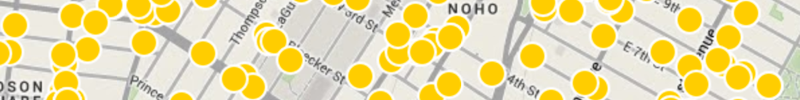
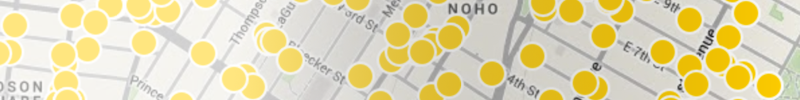
Clustering in class wizard

diff --git a/public/js/classwizards.js b/public/js/classwizards.js
@@ -17,8 +17,7 @@ classWizards.init = function (record) {
             {
                 html: '<table>' +
                     '<tr class="x-grid3-row"><td><hr></td></tr>' +
-                    '<tr class="x-grid3-row"><td><b>' + __("Single") + '</b></td></tr>' +
-                    '<tr class="x-grid3-row"><td><img style="width: 283px" src="/assets/images/single_class.png"></td></tr>' +
+                    '<tr class="x-grid3-row"><td class="map-thumbs" style="background-image:url(\'/assets/images/single_class.png\')"><b>' + __("Single") + '</b></td></tr>' +
                     '</table>'
             },
             {
@@ -68,10 +67,8 @@ classWizards.init = function (record) {
             {
                 html: '<table>' +
                     '<tr class="x-grid3-row"><td><hr></td></tr>' +
-                    '<tr class="x-grid3-row"><td><b>' + __("Unique values") + '</b></td></tr>' +
-                    '<tr class="x-grid3-row"><td><img style="width: 283px" src="/assets/images/unique_classes.png"></td></tr>' +
+                    '<tr class="x-grid3-row"><td class="map-thumbs" style="background-image:url(\'/assets/images/unique_classes.png\')"><b>' + __("Unique values") + '</b></td></tr>' +
                     '</table>'
-
             },
             {
                 defaults: {
@@ -81,13 +78,13 @@ classWizards.init = function (record) {
                 items: [
                     {
                         xtype: "form",
-                        id: "uniqueform",
+                        id: "clusterform",
                         layout: "form",
                         items: [
                             {
                                 xtype: 'container',
                                 defaults: {
-                                    width: 100
+                                    width: 150
                                 },
                                 items: [
                                     {
@@ -154,8 +151,7 @@ classWizards.init = function (record) {
             {
                 html: '<table>' +
                     '<tr class="x-grid3-row"><td><hr></td></tr>' +
-                    '<tr class="x-grid3-row"><td><b>' + __("Intervals") + '</b></td></tr>' +
-                    '<tr class="x-grid3-row"><td><img style="width: 283px" src="/assets/images/interval_classes.png"></td></tr>' +
+                    '<tr class="x-grid3-row"><td class="map-thumbs" style="background-image:url(\'/assets/images/interval_classes.png\')"><b>' + __("Intervals") + '</b></td></tr>' +
                     '</table>'
 
             },
@@ -289,6 +285,92 @@ classWizards.init = function (record) {
                                                 }
                                             }
                                         ]
+                                    }
+                                ]
+                            }
+                        ]
+                    },
+                    {
+                        html: '<table>' +
+                            '<tr class="x-grid3-row"><td><hr></td></tr>' +
+                            '<tr class="x-grid3-row"><td class="map-thumbs" style="background-image:url(\'/assets/images/cluster_classes.png\')"><b>' + __("Clustering") + '</b></td></tr>' +
+                            '</table>'
+                    },
+                    {
+                        defaults: {
+                            border: false
+                        },
+                        layout: 'hbox',
+                        items: [
+                            {
+                                xtype: "form",
+                                id: "clusterform",
+                                layout: "form",
+                                items: [
+                                    {
+                                        xtype: 'container',
+                                        defaults: {
+                                            width: 150
+                                        },
+                                        items: [
+                                            new Ext.ux.form.SpinnerField({
+                                                name: "clusterdistance",
+                                                minValue: 1,
+                                                allowDecimals: false,
+                                                decimalPrecision: 0,
+                                                incrementValue: 1,
+                                                accelerate: true,
+                                                allowBlank: false,
+                                                emptyText: __("Cluster distance")
+                                            })
+                                        ]
+                                    }
+                                ]
+                            },
+                            {
+                                layout: 'form',
+                                bodyStyle: 'margin-right:5px; padding-left: 5px',
+                                items: [
+                                    {
+                                        xtype: 'button',
+                                        text: 'Create',
+                                        handler: function () {
+                                            var f = Ext.getCmp('clusterform'), values, params;
+                                            if (f.form.isValid()) {
+                                                values = f.form.getValues();
+                                                params = classWizards.getAddvalues();
+                                                Ext.Ajax.request({
+                                                    url: '/controllers/classification/cluster/' + record._key_ + '/' + values.clusterdistance,
+                                                    method: 'put',
+                                                    params: params,
+                                                    headers: {
+                                                        'Content-Type': 'application/json; charset=utf-8'
+                                                    },
+                                                    success: function (response) {
+                                                        Ext.getCmp("a3").remove(wmsClass.grid);
+                                                        wmsClasses.store.load();
+                                                        wmsLayer.store.load();
+                                                        writeFiles(record.f_table_schema + "." + record.f_table_name);
+                                                        App.setAlert(__(App.STATUS_NOTICE), __(Ext.decode(response.responseText).message));
+                                                    },
+                                                    failure: function (response) {
+                                                        Ext.MessageBox.show({
+                                                            title: 'Failure',
+                                                            msg: __(Ext.decode(response.responseText).message),
+                                                            buttons: Ext.MessageBox.OK,
+                                                            width: 400,
+                                                            height: 300,
+                                                            icon: Ext.MessageBox.ERROR
+                                                        });
+                                                    }
+                                                });
+                                            } else {
+                                                var s = '';
+                                                Ext.iterate(f.form.getValues(), function (key, value) {
+                                                    s += String.format("{0} = {1}<br />", key, value);
+                                                }, this);
+                                            }
+                                        }
                                     }
                                 ]
                             }

diff --git a/public/js/store.js b/public/js/store.js
@@ -1523,7 +1523,7 @@ $(window).ready(function () {
                                 items: [
                                     {
                                         xtype: "panel",
-                                        title: 'Theme wizard',
+                                        title: __('Class wizards'),
                                         defaults: {
                                             border: false
                                         },

diff --git a/public/js/i18n/en_US.js b/public/js/i18n/en_US.js
@@ -162,6 +162,7 @@ gc2i18n = {
         "Close this window to disable measure tool": "Close this window to disable measure tool",
         "Measure": "Measure",
         "Distance": "Distance",
-        "Area": "Area"
+        "Area": "Area",
+        "Class wizards": "Class wizards"
     }
 };

diff --git a/app/models/Classification.php b/app/models/Classification.php
@@ -105,8 +105,7 @@ class Classification extends \app\inc\Model
         return $response;
     }
 
-    private
-    function store($data)
+    private function store($data)
     {
 
         // First we replace unicode escape sequence
@@ -124,8 +123,7 @@ class Classification extends \app\inc\Model
         return $response;
     }
 
-    public
-    function insert()
+    public function insert()
     {
         $classes = $this->getAll();
         $classes['data'][] = array("name" => "Unnamed class");
@@ -140,8 +138,7 @@ class Classification extends \app\inc\Model
         return $response;
     }
 
-    public
-    function update($id, $data)
+    public function update($id, $data)
     {
         $data->expression = urldecode($data->expression);
         $classes = $this->getAll();
@@ -158,8 +155,7 @@ class Classification extends \app\inc\Model
         return $response;
     }
 
-    public
-    function destroy($id) // Geometry columns
+    public function destroy($id) // Geometry columns
     {
         $classes = $this->getAll();
         unset($classes['data'][$id]);
@@ -179,14 +175,12 @@ class Classification extends \app\inc\Model
         return $response;
     }
 
-    private
-    function reset()
+    private function reset()
     {
         $this->store(json_encode(array()));
     }
 
-    public
-    function createSingle($data)
+    public function createSingle($data)
     {
         $this->reset();
         $layer = new \app\models\Layer();
@@ -203,8 +197,7 @@ class Classification extends \app\inc\Model
         return $response;
     }
 
-    public
-    function createUnique($field, $data)
+    public function createUnique($field, $data)
     {
         $layer = new \app\models\Layer();
         $geometryType = ($this->geometryType) ? : $layer->getValueFromKey($this->layer, "type");
@@ -244,13 +237,12 @@ class Classification extends \app\inc\Model
                 return $response;
             }
         }
-        $response['success'] = false;
+        $response['success'] = true;
         $response['message'] = "Updated " . sizeof($rows) . " classes";
         return $response;
     }
 
-    public
-    function createEqualIntervals($field, $num, $startColor, $endColor, $data)
+    public function createEqualIntervals($field, $num, $startColor, $endColor, $data)
     {
         $layer = new \app\models\Layer();
         $geometryType = ($this->geometryType) ? : $layer->getValueFromKey($this->layer, "type");
@@ -293,8 +285,7 @@ class Classification extends \app\inc\Model
 
     }
 
-    public
-    function createQuantile($field, $num, $startColor, $endColor, $data, $update = true)
+    public function createQuantile($field, $num, $startColor, $endColor, $data, $update = true)
     {
         $layer = new \app\models\Layer();
         $geometryType = $layer->getValueFromKey($this->layer, type);
@@ -364,6 +355,78 @@ class Classification extends \app\inc\Model
         return $response;
     }
 
+    public function createCluster($distance, $data)
+    {
+        $layer = new \app\models\Layer();
+        $geometryType = ($this->geometryType) ? : $layer->getValueFromKey($this->layer, "type");
+        if ($geometryType != "POINT" && $geometryType != "MULTIPOINT") {
+            $response['success'] = false;
+            $response['message'] = "Only point layers can be clustered";
+            $response['code'] = 400;
+            return $response;
+        }
+        $this->reset();
+
+        // Set layer def
+        $layer = new \app\models\Tile($this->layer);
+        $def = $layer->get();
+        if (!$def['success']) {
+            $response['success'] = false;
+            $response['message'] = "Error";
+            $response['code'] = 400;
+            return $response;
+        }
+        $def["data"][0]["cluster"] = $distance;
+        $def["data"][0]["meta_tiles"] = true;
+        $def["data"][0]["meta_size"] = 4;
+        $defJson = json_encode($def["data"][0]);
+        $res = $layer->update($defJson);
+        if (!$res['success']) {
+            $response['success'] = false;
+            $response['message'] = "Error";
+            $response['code'] = 400;
+            return $response;
+        }
+        //Set single class
+        $expression = "[Cluster:FeatureCount]=1";
+        $name = "Single";
+        $res = $this->update(0, self::createClass($geometryType, $name, $expression, 10, "#0000FF", $data));
+        if (!$res['success']) {
+            $response['success'] = false;
+            $response['message'] = "Error";
+            $response['code'] = 400;
+            return $response;
+        }
+
+        //Set cluster class
+        $expression = "[Cluster:FeatureCount]>1";
+        $name = "Cluster";
+        $data->labelText = "[Cluster:FeatureCount]";
+        $data->labelSize = "9";
+        $data->labelPosition = "cc";
+        $data->symbolSize = "50";
+        $data->overlaySize = "35";
+        $data->overlayColor = "#00FF00";
+        $data->overlaySymbol = "circle";
+        $data->symbol = "circle";
+        $data->opacity = "20";
+        $data->force = true;
+
+        $res = $this->update(1, self::createClass($geometryType, $name, $expression, 20, "#00FF00", $data));
+        if (!$res['success']) {
+            $response['success'] = false;
+            $response['message'] = "Error";
+            $response['code'] = 400;
+            return $response;
+        }
+
+
+        $response['success'] = true;
+        $response['message'] = "Updated 2 classes";
+        return $response;
+    }
+
+
     static function createClass($type, $name = "Unnamed class", $expression = null, $sortid = 1, $color = null, $data = null)
     {
         $symbol = ($data->symbol) ? : "";
@@ -388,13 +451,16 @@ class Classification extends \app\inc\Model
             "angle" => ($data->angle) ? : "",
             "size" => $size,
             "width" => ($data->lineWidth) ? : "",
-            "overlaycolor" => "",
+            "overlaycolor" => ($data->overlayColor) ? : "",
             "overlayoutlinecolor" => "",
-            "overlaysymbol" => "",
-            "overlaysize" => "",
+            "overlaysymbol" => ($data->overlaySymbol) ? : "",
+            "overlaysize" => ($data->overlaySize) ? : "",
             "overlaywidth" => "",
             "label_text" => ($data->labelText) ? : "",
             "label2_text" => ($data->labelText) ? : "",
+            "label_position" => ($data->labelPosition) ? : "",
+            "style_opacity" => ($data->opacity) ? : "",
+            "label_force" => ($data->force) ? : "",
         );
     }
 }

diff --git a/app/controllers/Classification.php b/app/controllers/Classification.php
@@ -60,4 +60,9 @@ class Classification extends \app\inc\Controller
         $response = $this->auth(Input::getPath()->part(4));
         return (!$response['success']) ? $response : $this->class->createQuantile(Input::getPath()->part(5), Input::getPath()->part(6), "#" . Input::getPath()->part(7), "#" . Input::getPath()->part(8), json_decode(urldecode(Input::get()))->data);
     }
+    public function put_cluster()
+    {
+        $response = $this->auth(Input::getPath()->part(4));
+        return (!$response['success']) ? $response : $this->class->createCluster(Input::getPath()->part(5), json_decode(urldecode(Input::get()))->data);
+    }
 }

diff --git a/public/store.php b/public/store.php
@@ -66,6 +66,26 @@ include("html_header.php");
         color: #ffffff;
         background-color: rgb(119, 119, 119);
     }
+
+    .map-thumbs {
+         background-size: 283px 35px;
+         width: 283px;
+         height:35px;
+        vertical-align: middle !important;
+
+    }
+    .map-thumbs b {
+        font-size: 16px;
+        line-height: 5px;
+        padding-left: 5px;
+        padding-top: 5px;
+        color: #000000;
+        text-shadow:
+            -1px -1px 0 #FFF,
+            1px -1px 0 #FFF,
+            -1px 1px 0 #FFF,
+            1px 1px 0 #FFF;
+    }
 </style>
 </head>
 <body>
